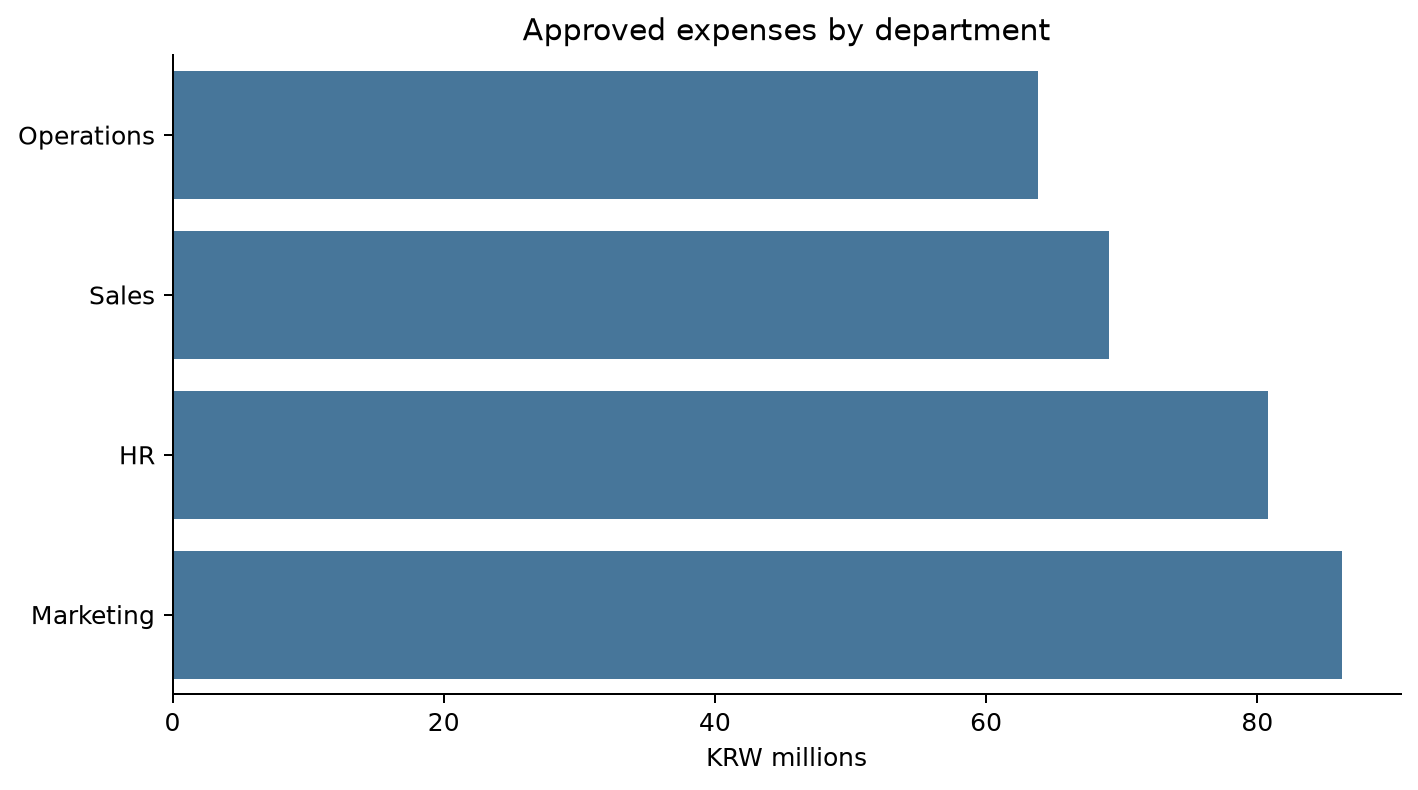
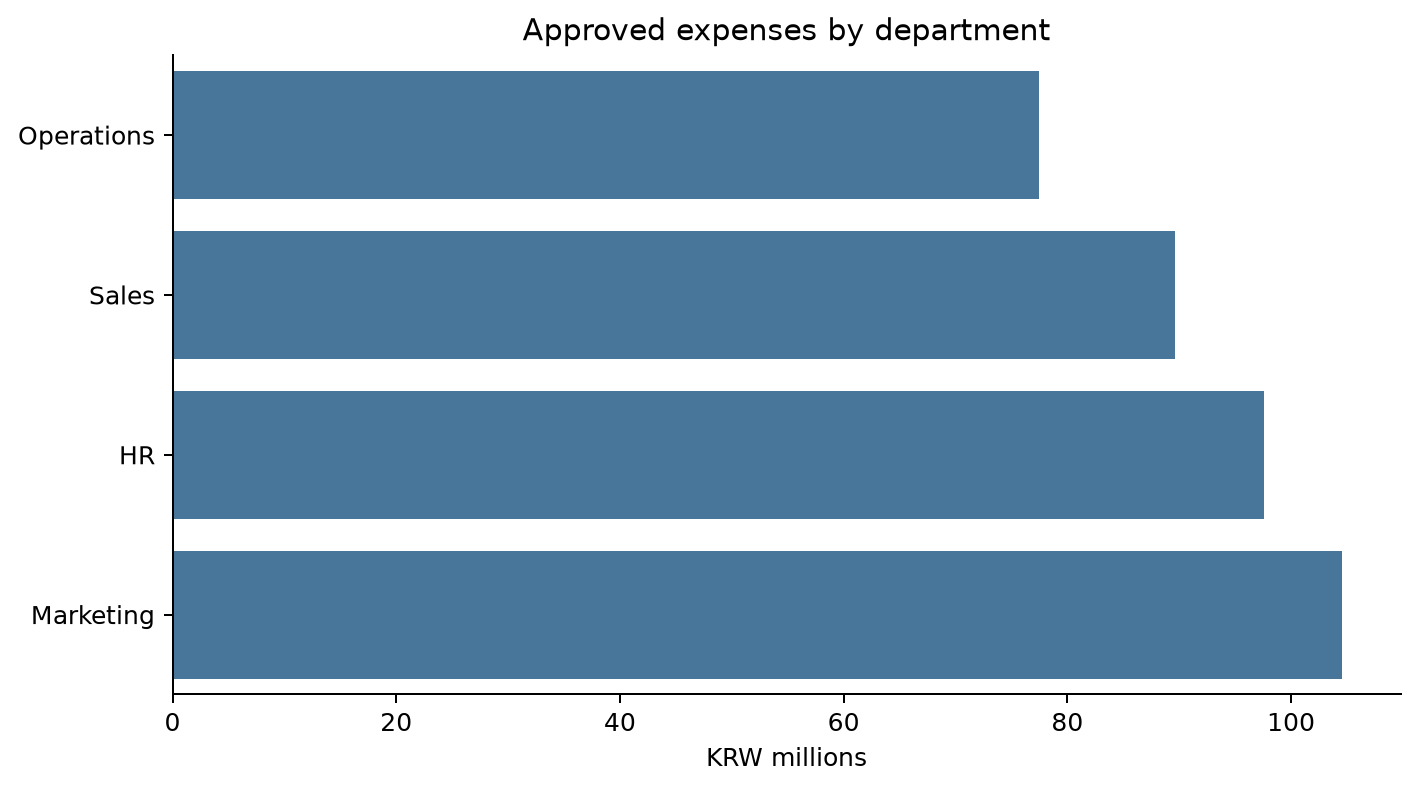
added June data

diff --git a/Process_expenses.py b/Process_expenses.py
@@ -3,7 +3,7 @@
 # 
 # **Business request:** Combine five months of expense files from four departments, clean their inconsistent labels, take an audit sample, summarize approved spending, and export English and Korean reports.
 # 
-# > Run this notebook from the repository root. The data is synthetic.
+# > Run this notebook from the repository rootss. The data is synthetic.
 
 # %% [markdown]
 # ## Before we get started
@@ -323,6 +323,7 @@ transformed_df[transformed_df.isnull().any(axis=1)].to_excel("outputs/missing_va
 # %%
 audit_sample = transformed_df.sample(n=100, random_state=50)
 transformed_df.sort_values(by='amount_krw',ascending=False)
+largest_expenses = transformed_df.sort_values(by='amount_krw',ascending=False)
 
 #print(audit_sample.head())
 print(largest_expenses[["transaction_id", "department", "category", "amount_krw"]])
